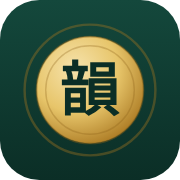
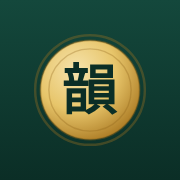
圖示改為滿版不透明，修正 iOS 主畫面黑角
- 新增 icon-square.svg：滿版底色、不切圓角，圓角交給作業系統
- icon-192 / icon-512 / apple-touch-icon 改用方形版輸出且不透明
- 金幣直徑縮到約 55%，在 Android 圓形遮罩下不會被切到
- manifest 同時宣告 any 與 maskable
- 分頁小圖示維持圓角去背（favicon-32 / 64）

Claude-Session: https://claude.ai/code/session_01TYjJnejdwbNuL35RRWFtaL

diff --git a/index.html b/index.html
@@ -7,6 +7,7 @@
 <meta name="robots" content="noindex, nofollow">
 <link rel="icon" href="icon.svg" type="image/svg+xml">
 <link rel="icon" href="favicon-32.png" sizes="32x32" type="image/png">
+<link rel="icon" href="favicon-64.png" sizes="64x64" type="image/png">
 <link rel="apple-touch-icon" href="apple-touch-icon.png">
 <link rel="manifest" href="manifest.webmanifest">
 <meta name="theme-color" content="#14483C">
